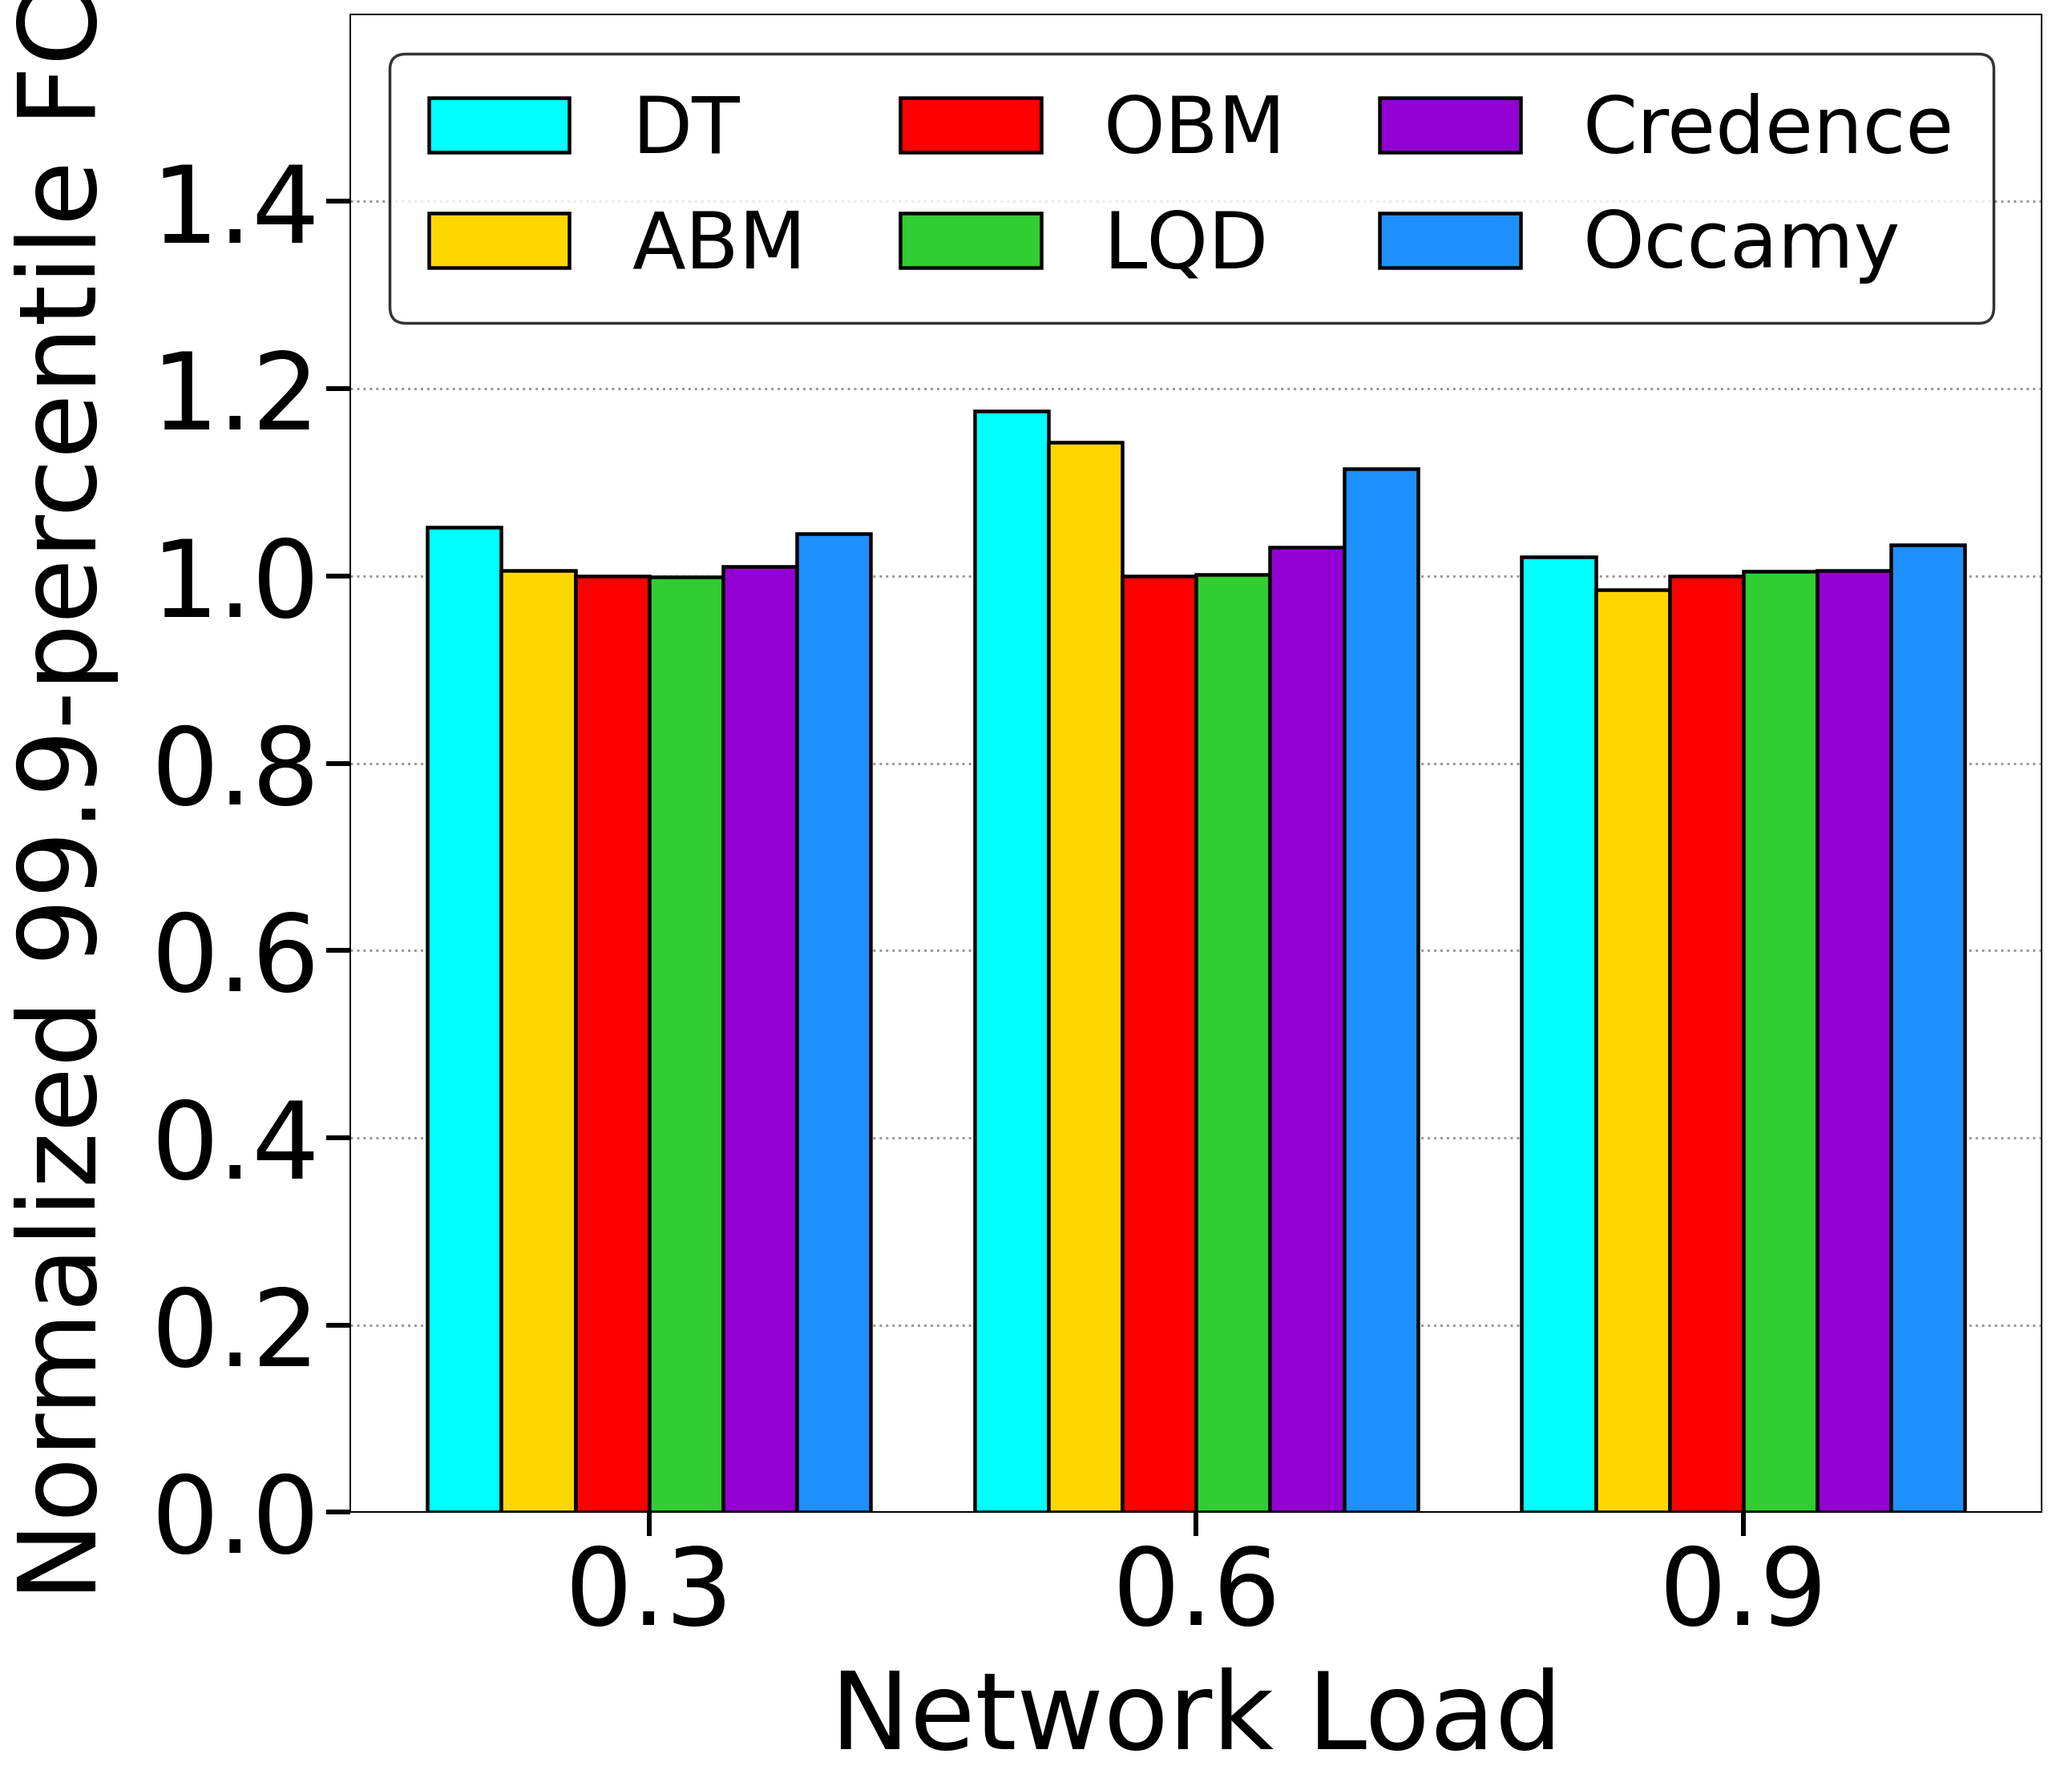
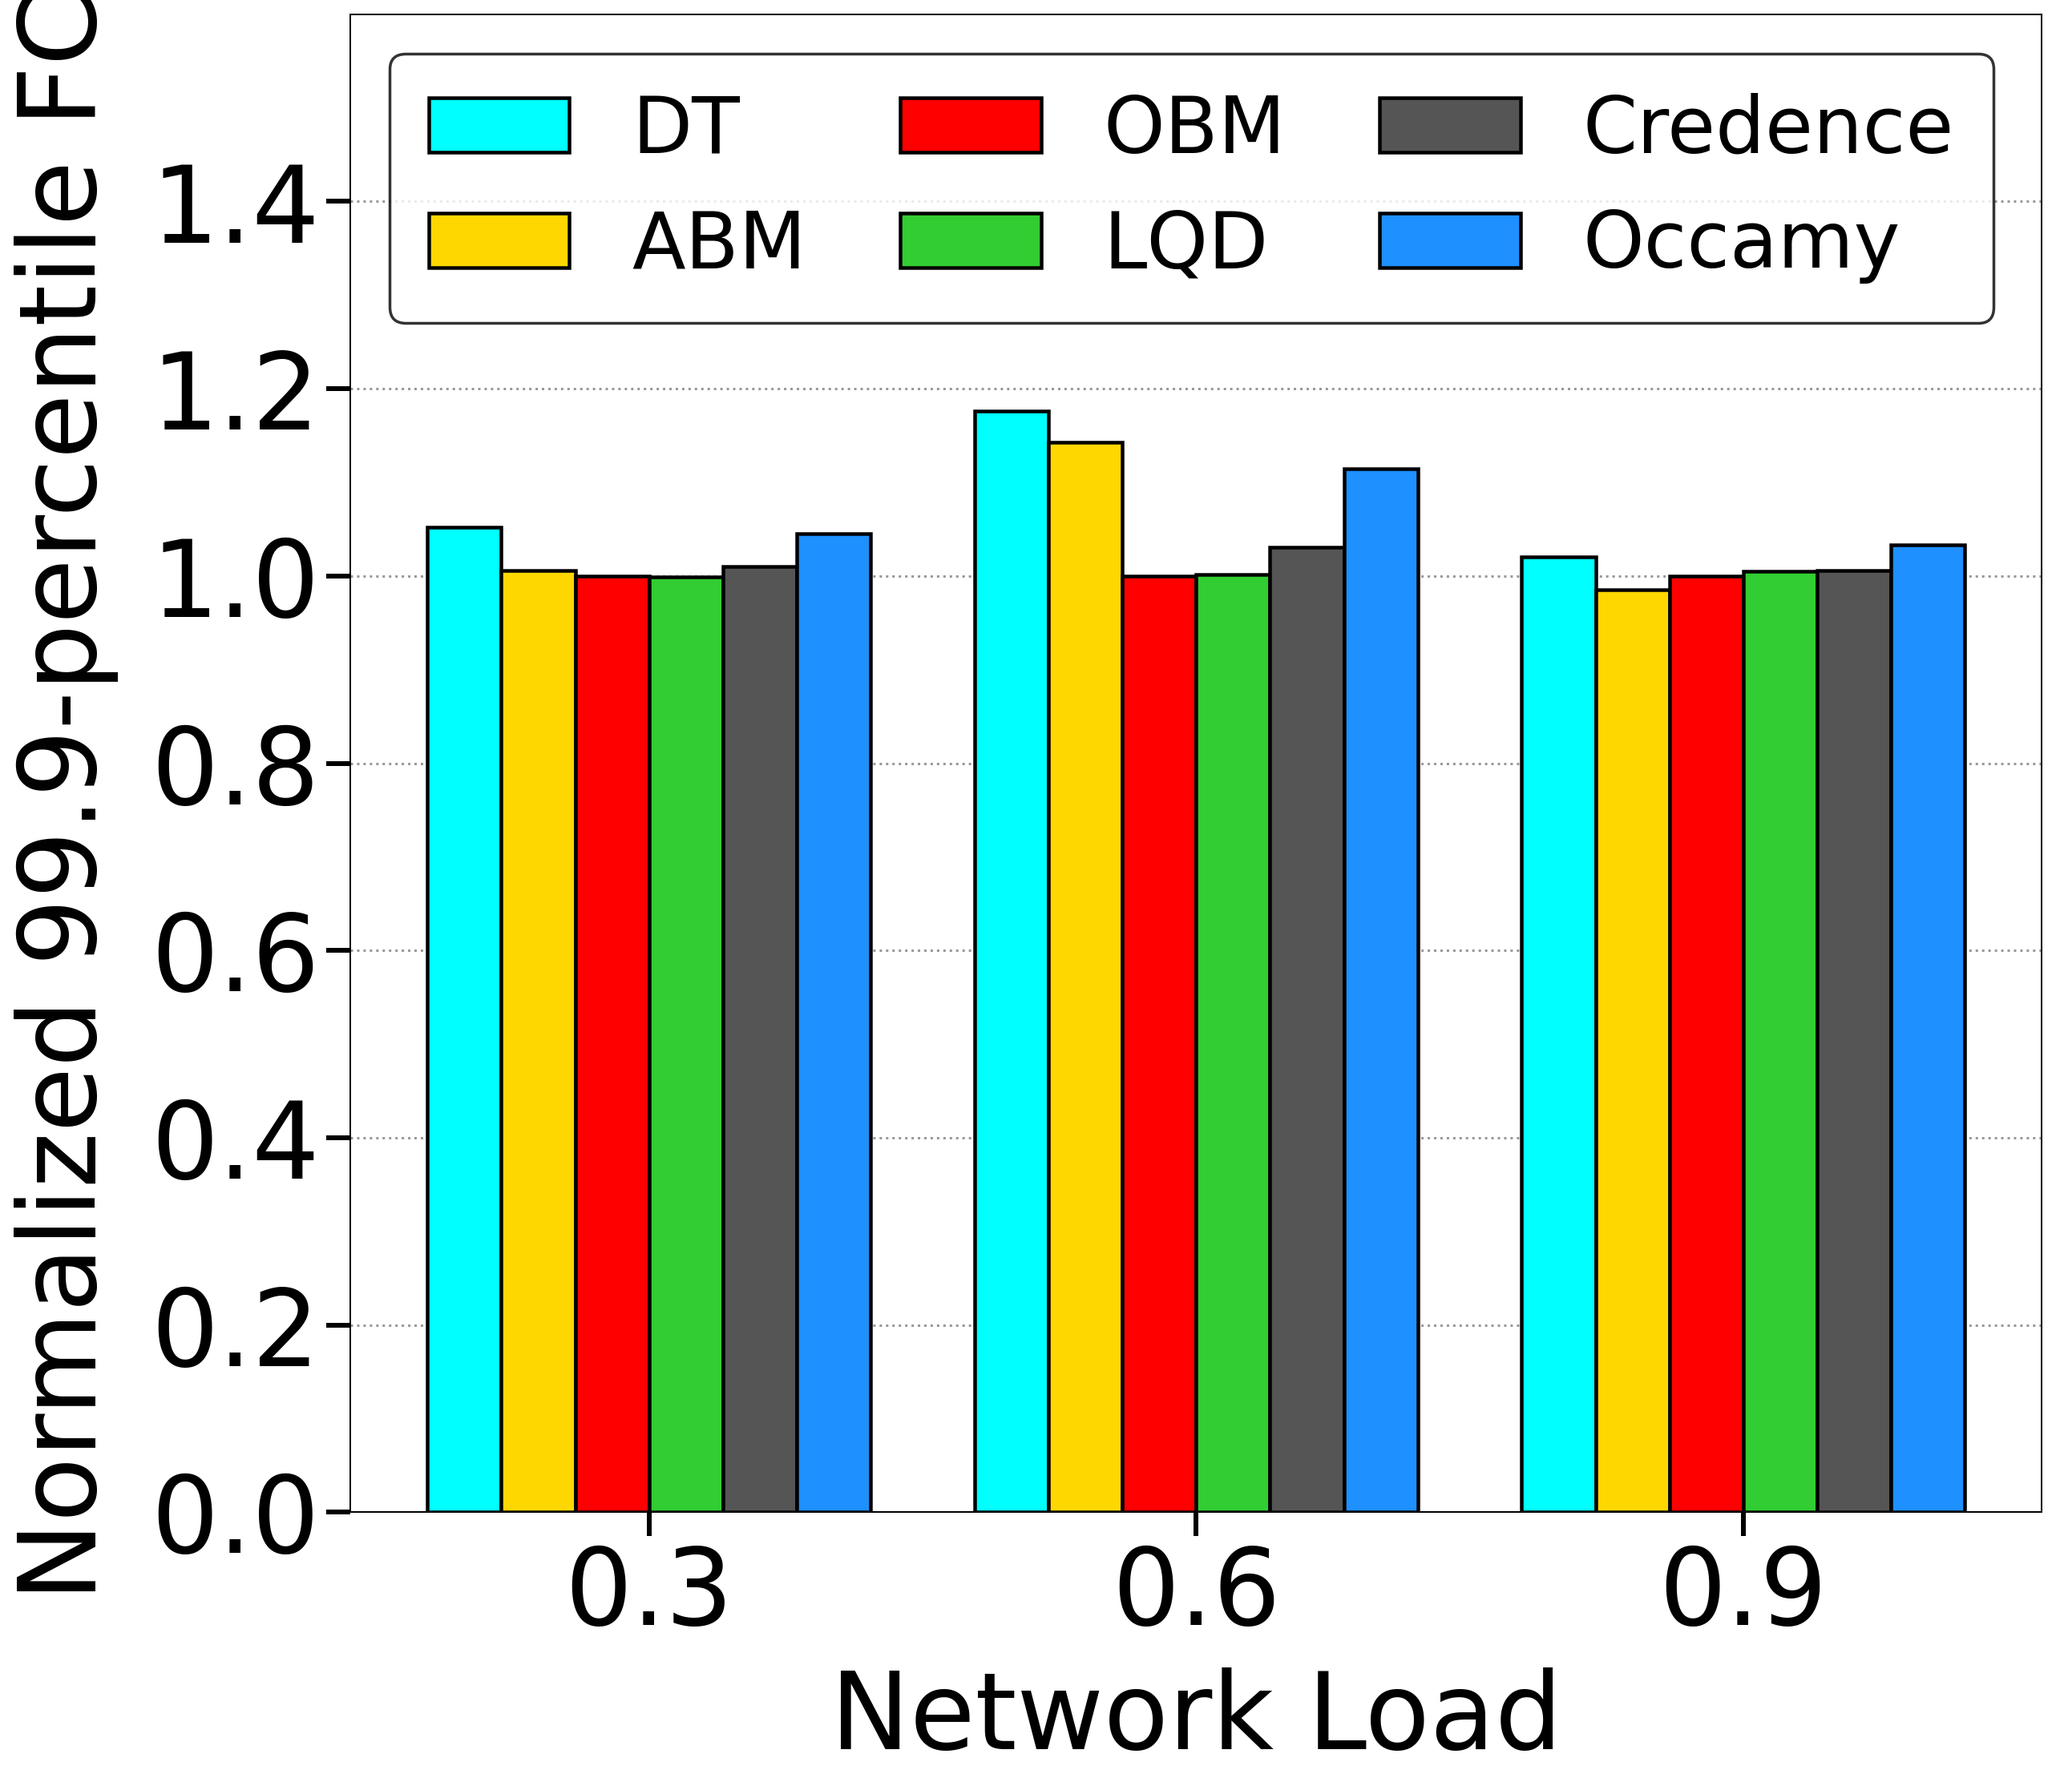
websearch plot fixed

diff --git a/plot_fct.py b/plot_fct.py
@@ -36,7 +36,7 @@ ALGO_META = {
     "abm":      ("ABM",      "#FFD700"),
     "obm":      ("OBM",      "#FF0000"),
     "lqd":      ("LQD",      "#32CD32"),
-    "credence": ("Credence", "#9400D3"),
+    "credence": ("Credence", "#555555"),
     "occamy":   ("Occamy",   "#1E90FF"), # Added Occamy (Blue)
 }
 
